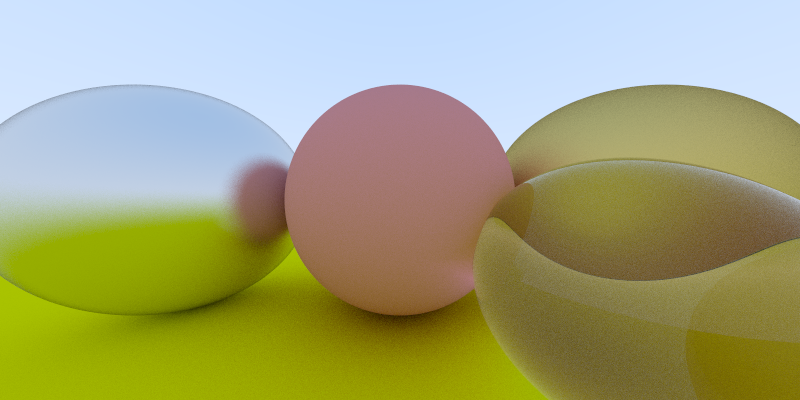
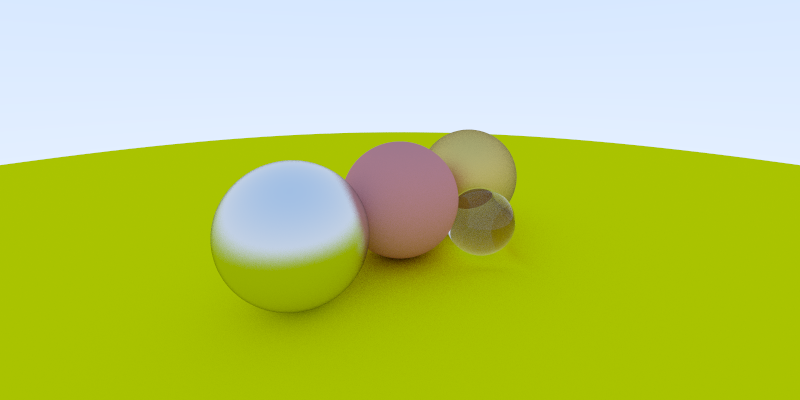
add camera params

diff --git a/src/camera/mod.rs b/src/camera/mod.rs
@@ -9,12 +9,19 @@ pub struct Camera {
 }
 
 impl Camera {
-    pub fn new() -> Self {
+    pub fn new(lookfrom: Vec3, lookat: Vec3, vup: Vec3, vfov: f64, aspect: f64) -> Self {
+        let theta = vfov * std::f64::consts::PI / 180.;
+        let half_height = (theta / 2.).tan();
+        let half_width = aspect * half_height;
+
+        let w = (lookfrom - lookat).normalized();
+        let u = vup.cross(w).normalized();
+        let v = w.cross(u);
         Camera {
-            lower_left_corner: Vec3::new(-2., -1., -1.),
-            horizontal: Vec3::new(4., -0., -0.),
-            vertical: Vec3::new(0., 2., 0.),
-            origin: Vec3::new(0., 0., 0.),
+            lower_left_corner: lookfrom - half_width * u - half_height * v - w,
+            horizontal: 2.0 * half_width * u,
+            vertical: 2.0 * half_height * v,
+            origin: lookfrom,
         }
     }
     pub fn get_ray(&self, u: f64, v: f64) -> Ray {

diff --git a/src/main.rs b/src/main.rs
@@ -62,7 +62,13 @@ fn main() {
         ],
     };
 
-    let camera = Camera::new();
+    let camera = Camera::new(
+        Vec3::new(-2., 1., 1.), // lookfrom
+        Vec3::new(0., 0., -1.), // lookat
+        Vec3::new(0., 1., 0.),  // vup
+        60.0,                   // vfov
+        nx as f64 / ny as f64,  // aspect
+    );
     let mut image_buffer = RgbImage::new(nx as u32, ny as u32);
     let mut rng = rand::thread_rng();
     for j in (0..ny).rev() {